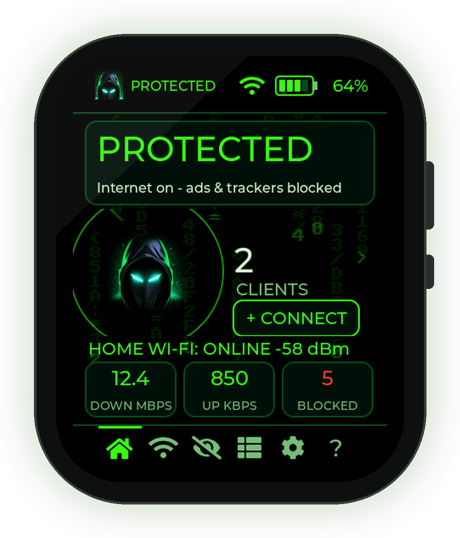
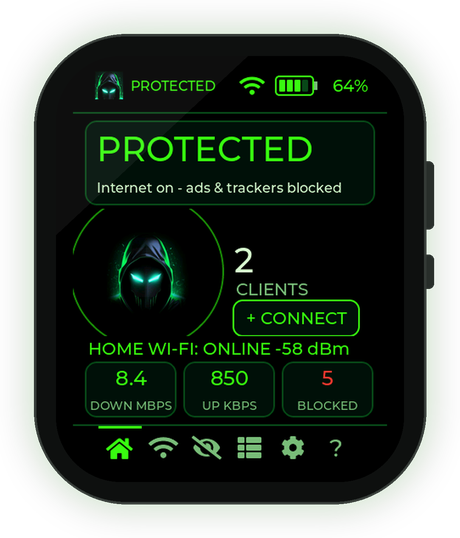
Site: home screen image shows measured 8.4 Mbit/s; versioned brochure link

diff --git a/index.html b/index.html
@@ -85,7 +85,7 @@
     <div class="tag">Your network. Your rules.</div>
     <p class="lead">Security you can carry in your pocket or bag. It protects every device you connect, at home, in hotels, cafes and airports, with nothing to install, and shows you everything on its own live screen.</p>
     <div class="ctas">
-      <a class="btn" href="Ghost_Matrix_Brochure.pdf">DOWNLOAD THE BROCHURE (PDF)</a>
+      <a class="btn" href="Ghost_Matrix_Brochure.pdf?v=2026-11-16">DOWNLOAD THE BROCHURE (PDF)</a>
       <a class="btn ghost" href="#why">WHY GHOST MATRIX</a>
     </div>
   </header>
@@ -227,7 +227,7 @@
     <h2>Your network. <em>Your rules.</em></h2>
     <p class="sub">Protection for your phone and laptop, on every Wi-Fi you join.</p>
     <div class="ctas" style="margin-top:22px">
-      <a class="btn" href="Ghost_Matrix_Brochure.pdf">DOWNLOAD THE BROCHURE</a>
+      <a class="btn" href="Ghost_Matrix_Brochure.pdf?v=2026-11-16">DOWNLOAD THE BROCHURE</a>
       <a class="btn ghost" href="mailto:luxagrid@yahoo.com">CONTACT US</a>
     </div>
   </section>
